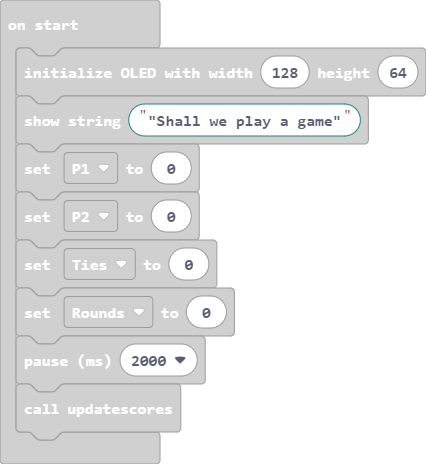
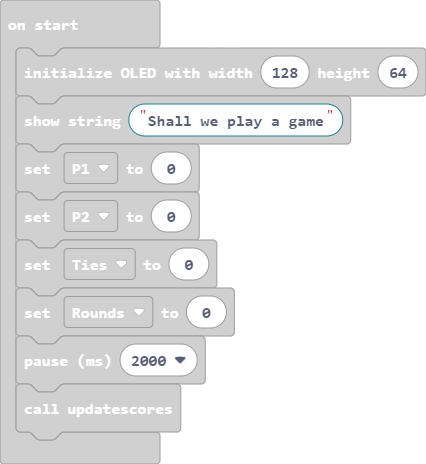
Update main.blocks, main.ts

Changed region(s): [[0.4577, 0.2112, 0.885, 0.3319], [0.3357, 0.2414, 0.4272, 0.2716]]

diff --git a/main.ts b/main.ts
@@ -13,7 +13,7 @@ let Ties = 0
 let P2 = 0
 let P1 = 0
 OLED.init(128, 64)
-OLED.writeStringNewLine("\"Shall we play a game\"")
+OLED.writeStringNewLine("Shall we play a game")
 P1 = 0
 P2 = 0
 Ties = 0
